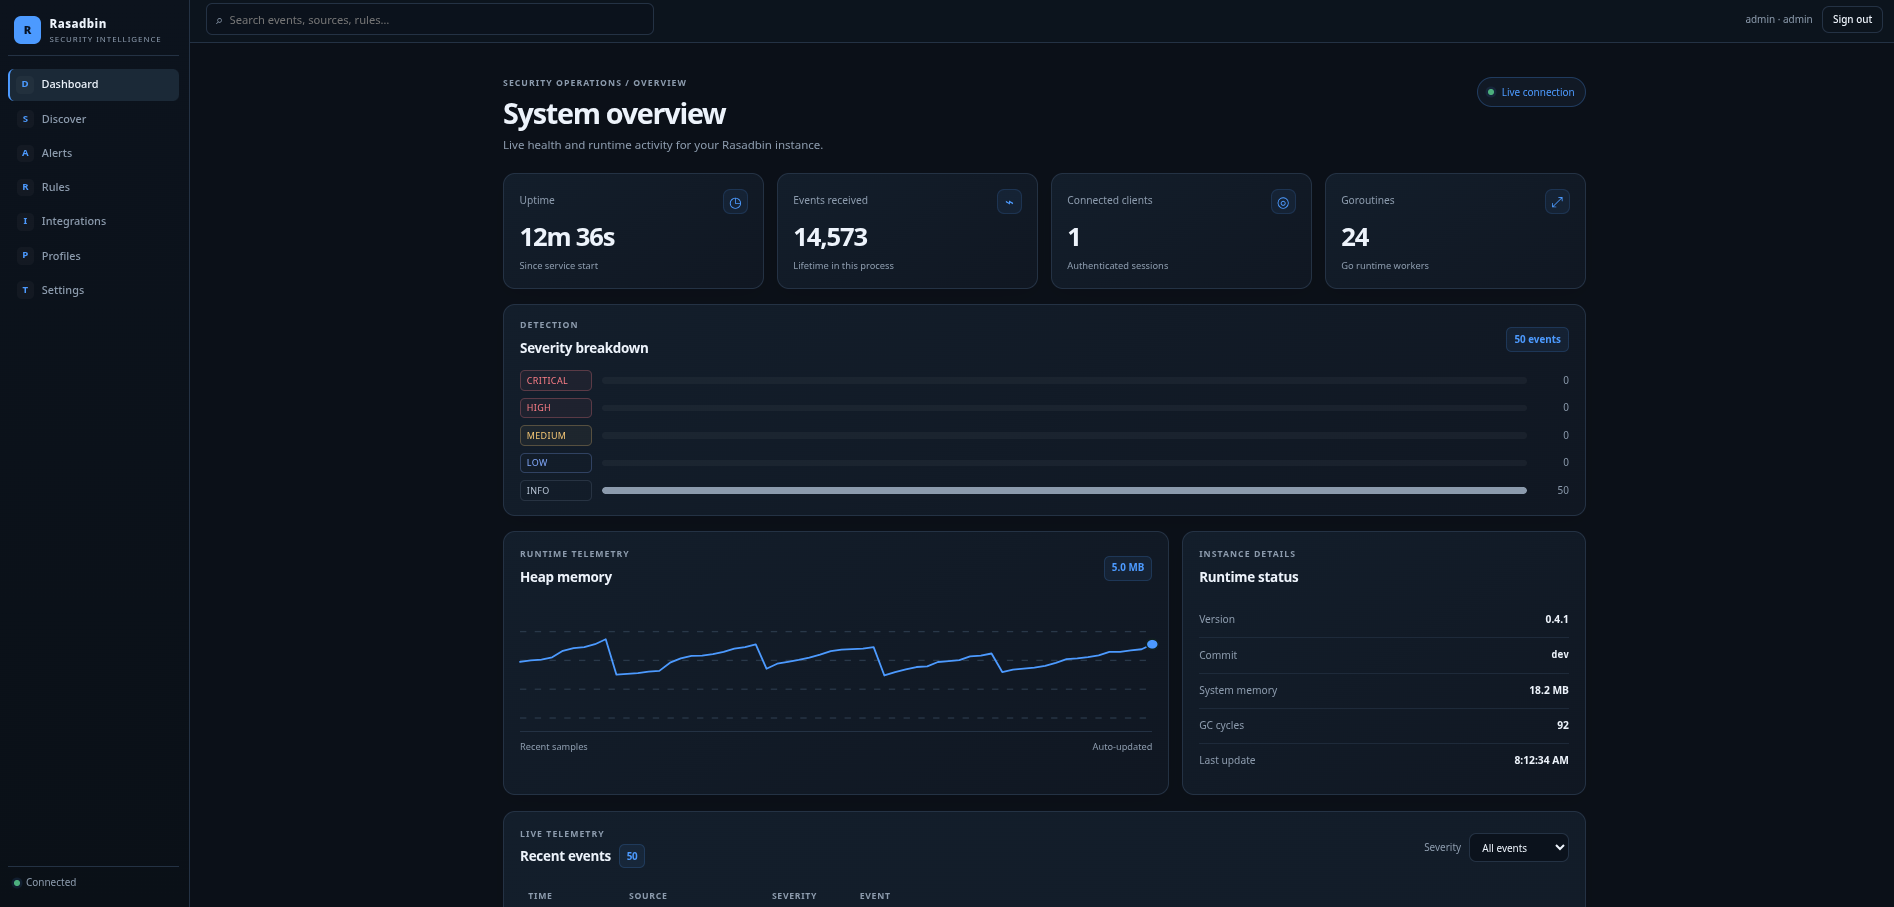
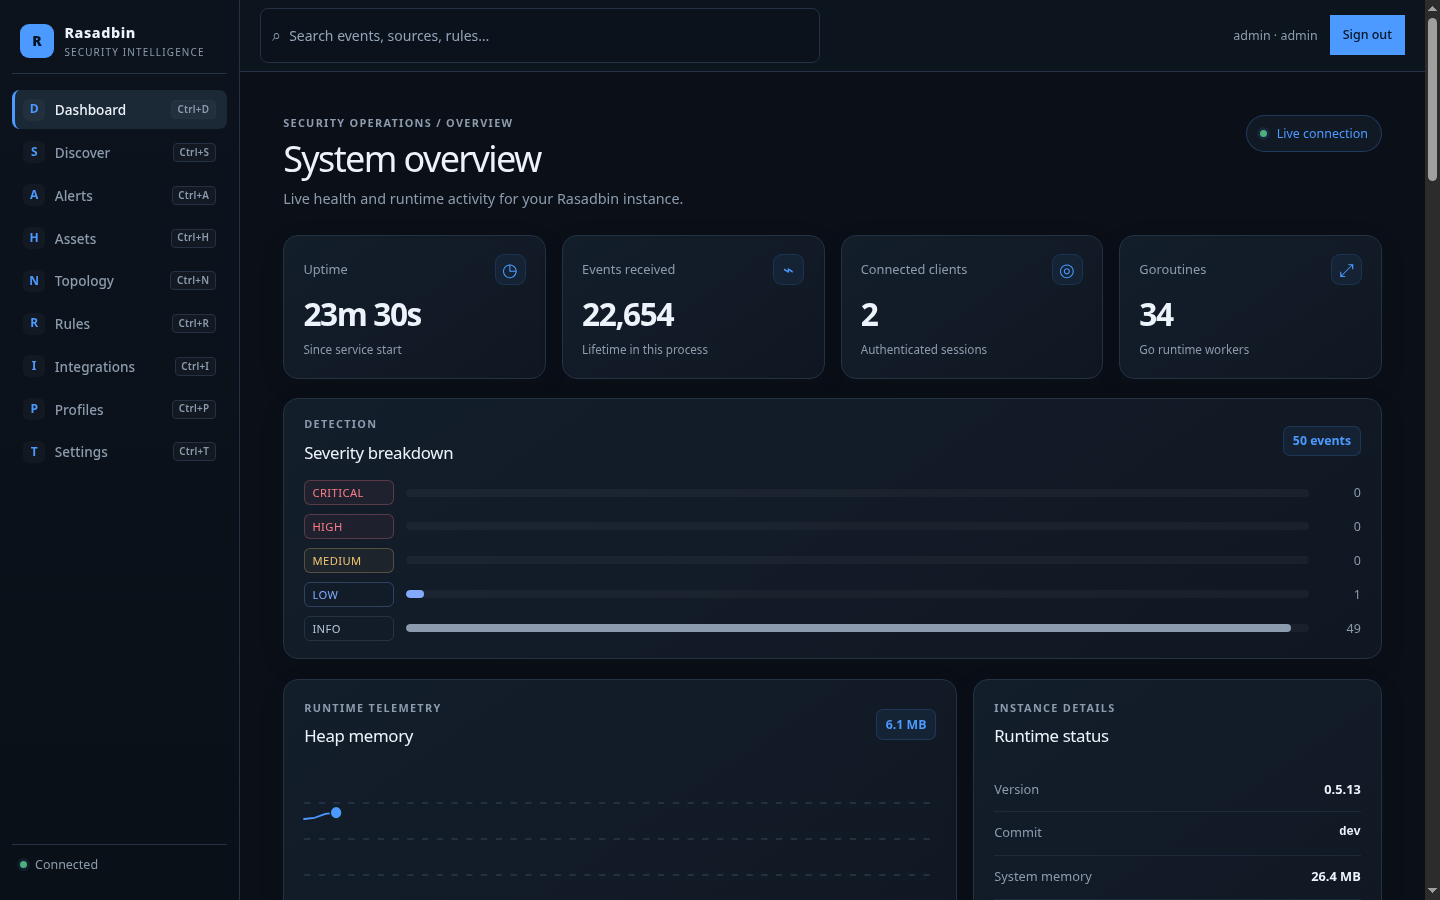
update screenshots

diff --git a/README.md b/README.md
@@ -24,6 +24,24 @@ Searchable event explorer with severity/source filters, a time histogram, and ex
 
 ![Discover](docs/screenshots/discover.png)
 
+### Alerts
+
+Persistent alert workspace with filters, evidence, status workflow, assignment, notes, and activity history.
+
+![Alerts](docs/screenshots/alerts.png)
+
+### Assets
+
+Discovered and manually added host inventory with services, sources, and enrichment details.
+
+![Assets](docs/screenshots/assets.png)
+
+### Topology
+
+Network topology view with live asset-to-asset links.
+
+![Topology](docs/screenshots/topology.png)
+
 ### Detection Rules
 
 Create, validate, enable/disable, and delete detection rules from the UI.
@@ -41,6 +59,12 @@ Enable telemetry sources, toggle alerting, and open a per-integration workspace.
 Import, validate, install, and remove reusable ZIP bundles of rules, integrations, and configuration.
 
 ![Profiles](docs/screenshots/profiles.png)
+
+### Settings
+
+Configure instance name, enrichment permissions, and administrator password.
+
+![Settings](docs/screenshots/settings.png)
 
 ## Features and Roadmap
 
